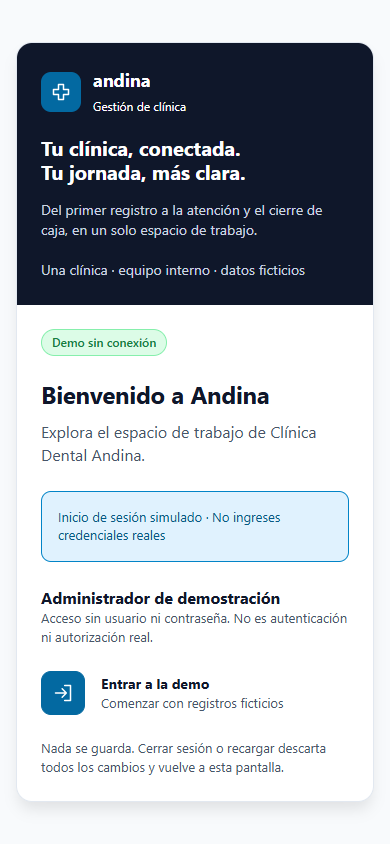
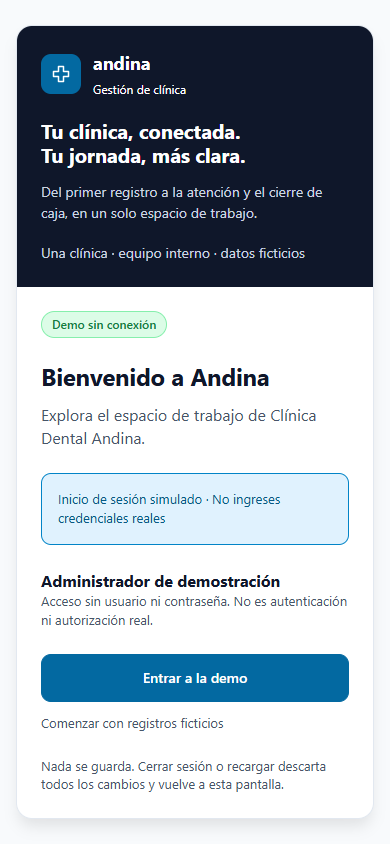
fix(prototype): make the full login caption clickable

Changed region(s): [[0.0308, 0.0308, 0.9538, 0.955]]

diff --git a/design/erp-workspace/01-unified-workspace.html b/design/erp-workspace/01-unified-workspace.html
@@ -153,8 +153,8 @@ dialog form { display:grid; gap:20px; }
 .login-form { padding:48px; display:grid; align-content:center; gap:24px; }
 .login-form .badge { justify-self:start; }
 .login-form h1 { margin-bottom:12px; }
-.login-entry { display:flex; align-items:center; gap:16px; }
-.login-entry strong { display:block; font-size:14px; }
+.login-entry { display:grid; gap:12px; min-width:0; }
+#login-enter { width:100%; min-height:48px; white-space:normal; }
 .login-note { padding:16px; border:1px solid #0284c7; border-radius:10px; color:#075985; background:#e0f2fe; font-size:13px; }
 @media(max-width:760px) {
  .login-screen { padding:16px; }
@@ -208,7 +208,7 @@ body.nav-collapsed .sidebar { display:none; }
    <div><h1 id="login-title" tabindex="-1">Bienvenido a Andina</h1><p class="muted">Explora el espacio de trabajo de Clínica Dental Andina.</p></div>
    <p class="login-note">Inicio de sesión simulado · No ingreses credenciales reales</p>
    <div><strong>Administrador de demostración</strong><p class="help">Acceso sin usuario ni contraseña. No es autenticación ni autorización real.</p></div>
-   <div class="login-entry"><button type="submit" class="primary" id="login-enter">Entrar a la demo</button><div><strong>Entrar a la demo</strong><p class="help">Comenzar con registros ficticios</p></div></div>
+   <div class="login-entry"><button type="submit" class="primary" id="login-enter">Entrar a la demo</button><p class="help">Comenzar con registros ficticios</p></div>
    <p class="help">Nada se guarda. Cerrar sesión o recargar descarta todos los cambios y vuelve a esta pantalla.</p>
   </form>
  </div>
@@ -1668,6 +1668,7 @@ function actionIcon(button,label) {
 iconPaths.menu='M4 6h16M4 12h16M4 18h16';
 // Explicit presentation exceptions; all other actions retain semantic icons/tooltips.
 function actionPresentation(button,label) {
+ if(button.id==='login-enter') return {label:'Entrar a la demo',text:'Entrar a la demo'};
  const moduleAdds={patients:'Paciente',agenda:'cita',inventory:'insumo',expenses:'egreso'};
  let addLabel=null;
  if(button.id==='catalog-add') addLabel=`Agregar ${catalogLabel(catalogKind)}`;

diff --git a/design/erp-workspace/README.md b/design/erp-workspace/README.md
@@ -10,7 +10,9 @@ Open the printed `http://127.0.0.1:<port>/` URL in a normal browser, then click 
 
 The **review/annotation canvas is for visual feedback**, not functional acceptance: its provider-owned sandbox can block native login/form interaction. The direct canvas `/files/` URL has the same restriction. Use the separate HTTP URL above; do not weaken canvas security. Alternatively, open [`01-unified-workspace.html`](01-unified-workspace.html) as a normal standalone `file://` document outside the canvas. The HTTP mode is the regression-tested interactive delivery.
 
-**T8/S37 author GREEN passed: HTTP job6 exited 0 / PASS 2239 checks**, with 26 owned local HTML document loads, zero external/API/storage writes and zero page errors. Final independent technical verification passed **53 checks** through reviewer-authored assertions executed unchanged by the primary as a runner relay. Actual interactive delivery at **http://127.0.0.1:50236/** passed native-click acceptance. No native-authority approval is claimed. Clinical documentation now has human-selected diagnoses, optional medication references with manual instructions, separate clinical notes/recommendations, and visible text **Guardar progreso / Completar consulta demo**. Entries are isolated drafts until an explicit save; no diagnosis, medicine, dose or recommendation is generated automatically. Parent observed T8 HTTP RED job5 exit1/4s/50 passing checks on the previous missing controls.
+**T9/S40 verified: author HTTP PASS2355 plus independent focused PASS25.** One full-width visible-text Entrar a la demo submit button replaces the inert caption and arrow-only control. Native text click, mobile touch, Enter and Space, real menu interaction, logout and re-entry/reset passed. The actual delivered URL **http://127.0.0.1:50236/** passed all four input modes. Prior2239/53 evidence below is historical; the current2355/25 proof explicitly covers the visible caption.
+
+**Historical T8/S37 author GREEN passed: HTTP job6 exited 0 / PASS 2239 checks**, with 26 owned local HTML document loads, zero external/API/storage writes and zero page errors. Final independent technical verification passed **53 checks** through reviewer-authored assertions executed unchanged by the primary as a runner relay. Actual interactive delivery at **http://127.0.0.1:50236/** passed native-click acceptance. No native-authority approval is claimed. Clinical documentation now has human-selected diagnoses, optional medication references with manual instructions, separate clinical notes/recommendations, and visible text **Guardar progreso / Completar consulta demo**. Entries are isolated drafts until an explicit save; no diagnosis, medicine, dose or recommendation is generated automatically. Parent observed T8 HTTP RED job5 exit1/4s/50 passing checks on the previous missing controls.
 
 Historical T7 author verification: **HTTP job4 exited 0 / PASS 2128**, 24 owned HTML document loads, zero external/API/storage writes or page errors. Its clear columns, separate patient identity documents/internal IDs, free studies, services-only billing, paid-order cleanup and Medicamentos CRUD remain, along with S29/S30 Navigation and 8px spacing. Those results and existing screenshots do not verify the new T8 candidate.
 
@@ -20,7 +22,7 @@ Feature: [`../../odd/tasks/erp-prototype-full-workflows.md`](../../odd/tasks/erp
 
 ## Enter and reset the demo
 
-The initial screen is **Inicio de sesión simulado · No ingreses credenciales reales**. Use the entry-arrow icon beside **Entrar a la demo**, or focus it and press Enter. No username/password fields are presented or read; this is a no-credential visual simulation, not authentication. The workspace stays hidden and inert until entry.
+The initial screen is **Inicio de sesión simulado · No ingreses credenciales reales**. Click or tap the full-width **Entrar a la demo** text button, or focus it and press Enter or Space. The caption is inside the submit button; **Comenzar con registros ficticios** below it is explanatory help, not a second entry control. No username/password fields are presented or read; this is a no-credential visual simulation, not authentication. The workspace stays hidden and inert until entry.
 
 **Cerrar sesión** is the exit-arrow icon in the header, visible on desktop and mobile. It immediately hides the workspace and reloads the same document: every record, preference, custom role, draft, pending QR, payment and receipt is discarded. Re-entry restores the original fixtures, clinic, menu, theme and totals. Ordinary browser reload also returns to login. No cookies, storage, session tokens, auth query parameters or external service are involved. Real application authentication and role authorization remain unimplemented.
 
@@ -236,7 +238,7 @@ Everything stays in the artboard closure's `state`, not a fake global API:
 - **`registerExpense`** is the sole expense validation/ID-allocation/posting path. `expenseTotal` derives current-day outgoing totals from `state.expenses`, seeded once with EXP-1/Bs 250. `renderExpenses` handles filters; `openExpenseDetail` is read-only. Reuse `parseCents`, `money`, `newId` and shared native dialog helpers; do not introduce a second expense mutation path.
 - All money is integer cents. `parseCents` validates input, `money` formats output. Issued orders now include a patient-name snapshot alongside immutable issued lines; receipts retain their own snapshots. Only **`registerPayment`** creates ledger/receipt records. QR holds order revision and cannot mutate money directly. `newId` allocates only after validation.
 
-- Presentation uses **`decorateActions` / `actionPresentation` / `actionIcon`** as a shared adapter for static and dynamically rendered buttons. It preserves existing nodes, types, handlers and tab state; `actionPresentation` is the single contextual-exception policy for Agregar, dialogs and Configuration text; it keeps visible text distinct from contextual accessible names and avoids MutationObserver rewriting loops via `presentationText`. Other new action vocabulary must map through `actionIcon` to a semantic SVG rather than a fallback. Role CRUD reuses this adapter and `saveCatalog`, `validateRoleName`, `addRole`, `roleMarkup`, `refreshMaster`; `saveCatalog` now changes only role names, never absent permission inputs. A narrow MutationObserver decorates inserted controls and changed accessible menu labels. The shared manual-popover tooltip is owned by the active dialog when needed, clamps to the viewport and dismisses on Escape, scrolling, click or resize.
+- Presentation uses **`decorateActions` / `actionPresentation` / `actionIcon`** as a shared adapter for static and dynamically rendered buttons. It preserves existing nodes, types, handlers and tab state; `actionPresentation` is the single contextual-exception policy for Agregar, dialogs, Configuration and clinical text, plus the explicit login-only `#login-enter` text button; it keeps visible text distinct from contextual accessible names and avoids MutationObserver rewriting loops via `presentationText`. Other new action vocabulary must map through `actionIcon` to a semantic SVG rather than a fallback. Role CRUD reuses this adapter and `saveCatalog`, `validateRoleName`, `addRole`, `roleMarkup`, `refreshMaster`; `saveCatalog` now changes only role names, never absent permission inputs. A narrow MutationObserver decorates inserted controls and changed accessible menu labels. The shared manual-popover tooltip is owned by the active dialog when needed, clamps to the viewport and dismisses on Escape, scrolling, click or resize.
 
 - S27 navigation uses **`menuAccess`** for complete boolean maps, **`roleAllows`** for strict known-menu/own-property/true checks, **`canNavigate` / `permittedMenus`** for the preference/grant intersection, **`navigate`** as the returning-boolean central guard and **`reconcileAccess`** for current-view fallback/no-modules clearing. Reuse these helpers for future links; target-DOM follow-up requires successful navigation. `startConsultation` checks before allocating IDs or mutating appointments. **`renderProfile`** preserves stable selection without any unknown-role fallback; role saves/add/delete refresh it. Native dialog and tooltip ownership are unchanged.
 
@@ -246,14 +248,14 @@ Coverage: **S1–S30 plus T7/S31–S36/S38–S39 implemented at prototype scope;
 
 T7 runtime evidence: RED job1 exit1/12s/49 checks. First GREEN job2 failed after83s at an unscoped `.table-wrap` matching a retained hidden order dialog; scoped the measurement to `#catalog-results`. Next job3 failed after123s when `.all()` over dynamic `:checked` inputs changed index membership during unchecking; iterate the stable service checkbox set instead. Exact overflow/free-study rejection assertions retained. Final changed-test job4 exited0/127s, PASS2128. This proves T7, not the new T8 clinical fields or final independent review.
 
-T8 tests-first evidence: actual HTTP job5 RED exited1/4s after50 passing checks, naming missing text clinical actions and disease/medicine/notes/recommendation fields. First implementation GREEN job6 exited0/126s, PASS2239; focused T8 draft/snapshot/billing contract passed at607 checks, Navigation123 and Resumen205. Existing T7, financial-cent, cash/QR idempotence, receipt/snapshot, CRUD/reference protection, patient/document isolation, role/content gating, mobile/focus/tooltip and reset checks remain. No external/API/storage writes or page errors. Final independent technical proof passed53 and actual persistent-URL acceptance passed at50236.
 
-## Final independent verification and delivery
+[Showing lines 1-250 of 262 (50.0KB limit). Use offset=251 to continue.]
+## S40 login regression evidence
 
-Pinned source: `3c8fc3f049d1d7e99ad4f5c3d82bb84e73e6d2f0` (preceding catalog/Navigation unit `3e77365`). Author suite **2239** passed; the independent reviewer inspected source and authored a separate public-HTTP probe. Windows command transport truncated the initial setup before browser execution. The primary materialized the exact reviewer script with native file writing and ran it as a transport relay; the reviewer retained assertion ownership and admitted the complete log and scoped verdict.
+The reported failure was reproduced on the actual50236 server at desktop1440 and mobile390: clicking the visible caption did nothing, while the small arrow opened Resumen. The fix changes only login CSS/markup and the ID-specific text-presentation exception; no submit/session, access guard or business handler changes.
 
[1 lines of base64/hex data omitted]
+Tests-first RED: job4 exited1/3s after51 checks at actual caption activation. First GREEN job5 failed only because its broad text locator also matched the shared tooltip after activation; scoping literal text to the login form preserved the interaction assertion. Corrected full suite job6 exited0/154s, **PASS2355**, **34 owned HTML GETs**, **0 external/API/storage writes/page errors**, desktop1440/mobile390; all four screenshots refreshed.
 
-Current interactive URL: **http://127.0.0.1:50236/**; earlier50352 was unavailable (curl7), so the loopback-only runner was restarted. Primary native-click acceptance passed login, no Triage, Medicamentos, Lab Nombre/Descripción, no QR on paid fixture ORD-103, clinical text actions and blank disease/medicine selects, mobile390 no overflow and logout, with no page errors. Its first probe mistakenly treated unpaid ORD-101 as paid; correcting the fixture to the actually paid ORD-103 resolved the test without application edits. Own test/browser contexts and isolated servers were closed; the user's interactive preview remains running.
[1 lines of base64/hex data omitted]
 
-All code changes remain local. Native assessment remained unavailable because unrelated untracked files need declaration; no START, consent answer, authority acknowledgement or native approval was fabricated. Production backend/authentication, real prescriptions, real payments and durable storage remain out of scope.
+Primary actual-delivery acceptance at50236 separately passed literal-text mouse click, mobile tap, Enter and Space, each opening interactive Resumen and logging out with zero page errors. Reload the direct interactive URL to replace an already-open old login document. The restricted annotation canvas remains a visual/comment tool, not the interactive ERP endpoint. Native assessment is unavailable due unrelated untracked declaration; no native START/approval is claimed.
